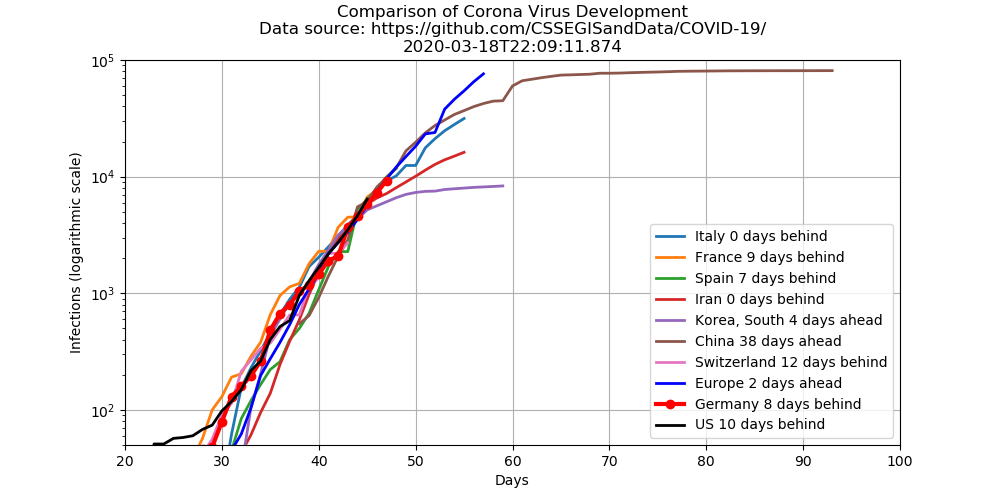
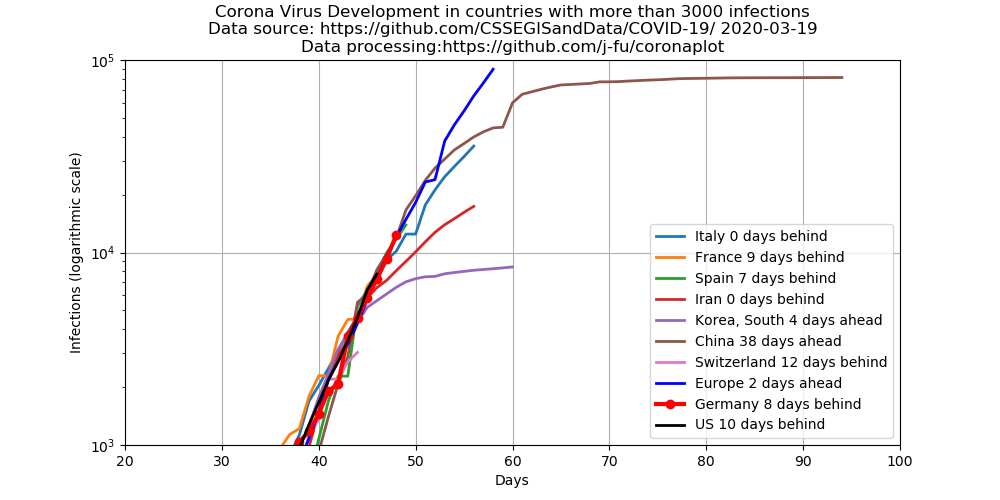
data update

diff --git a/docs/index.md b/docs/index.md
@@ -12,7 +12,9 @@ Nach einer Idee von [Mark Handley](https://twitter.com/MarkJHandley/status/12371
 - [Die](https://gisanddata.maps.arcgis.com/apps/opsdashboard/index.html#/bda7594740fd40299423467b48e9ecf6) bekannte Karte zur Verbreitung des Coronavirus.
 - Die Daten für die Plots kommen aus dem [Github- Repository mit den aktuellen Daten](https://github.com/CSSEGISandData/COVID-19). Diese werden [einmal am Tag um 0:00  (UTC)](https://github.com/CSSEGISandData/COVID-19/tree/master/csse_covid_19_data#update-frequency) aktualisiert (seltener als die der Karte)
 Die Daten für die USA basieren auf den Angaben für die Bundesstaaten. Die Daten für Europa beinhalten die Daten für die EU-Länder, sowie für die Schweiz, Norwegen und Großbritannien. Alle anderen europäischen Staaten haben zum aktuellen Zeitpunkt (17.3.) jeweils weniger als 100 Fälle.
-
+- Die Daten hängen von mehreren Faktoren ab, unter anderem:
+   - von der realen Zahl der Infektionen
+   - von der Verfügbarkeit von Tests, welche zwischen den einzelnen Ländern stark variiert
 
 
 ## Darstellung in absoluten Zahlen
@@ -25,6 +27,11 @@ Die Daten für Italien werden ohne zeitliche Verschiebung dargestellt. Die Daten
 ![](infected.png) 
 
 Die gleiche Darstellung wie oben, nur mit einer logarithmischen Skala der y-Achse. In diesem Fall entspricht das exponentielle Wachstum einer geraden Linie.
+
+## Entwicklung der täglichen Wachstumsraten
+![](infected-growthrate.png) 
+
+Diese Darstellung zeigt die Entwicklung über 15 Tage gemittelten täglichen Wachstumsraten der Infektionszahlen. Eine konstante Wachstumsrate entspricht einem exponentiellen Wachstum. Eine konstante Wachstumsrate von 100% entspricht einer täglichen Verdopplung der Fallzahlen.
 
 
 

diff --git a/docs/index.en.md b/docs/index.en.md
@@ -20,6 +20,9 @@ data source and plot the data in a different way for those countries which have 
   ignored.  Data  for  Europe  currently  include   the  EU,
   Switzerland, Norway, UK only. All other European countries have
   (as of March 17) less than 100 infections each.
+- These data depend on many factors, among these are:
+   - the real number of infections
+   - the availability of test which strongly varies between countries.
 
 
 
@@ -40,5 +43,11 @@ just eight days behind.
 ![](infected.png) 
 
 This is the same plot, just with a logarithmic scale of the y-axis.
+
+
+## Development of daily growth rates
+![](infected-growthrate.png) 
+
+This plot shows the evolution of the daily growth rates, averaged over 15 days. A constant growth rate corresponds to an exponential growth. A constant growth rate of 100% corresponds to daily doubling of case numbers.
 
 [Source code for the creation of the plots](https://github.com/j-fu/coronaplot)
